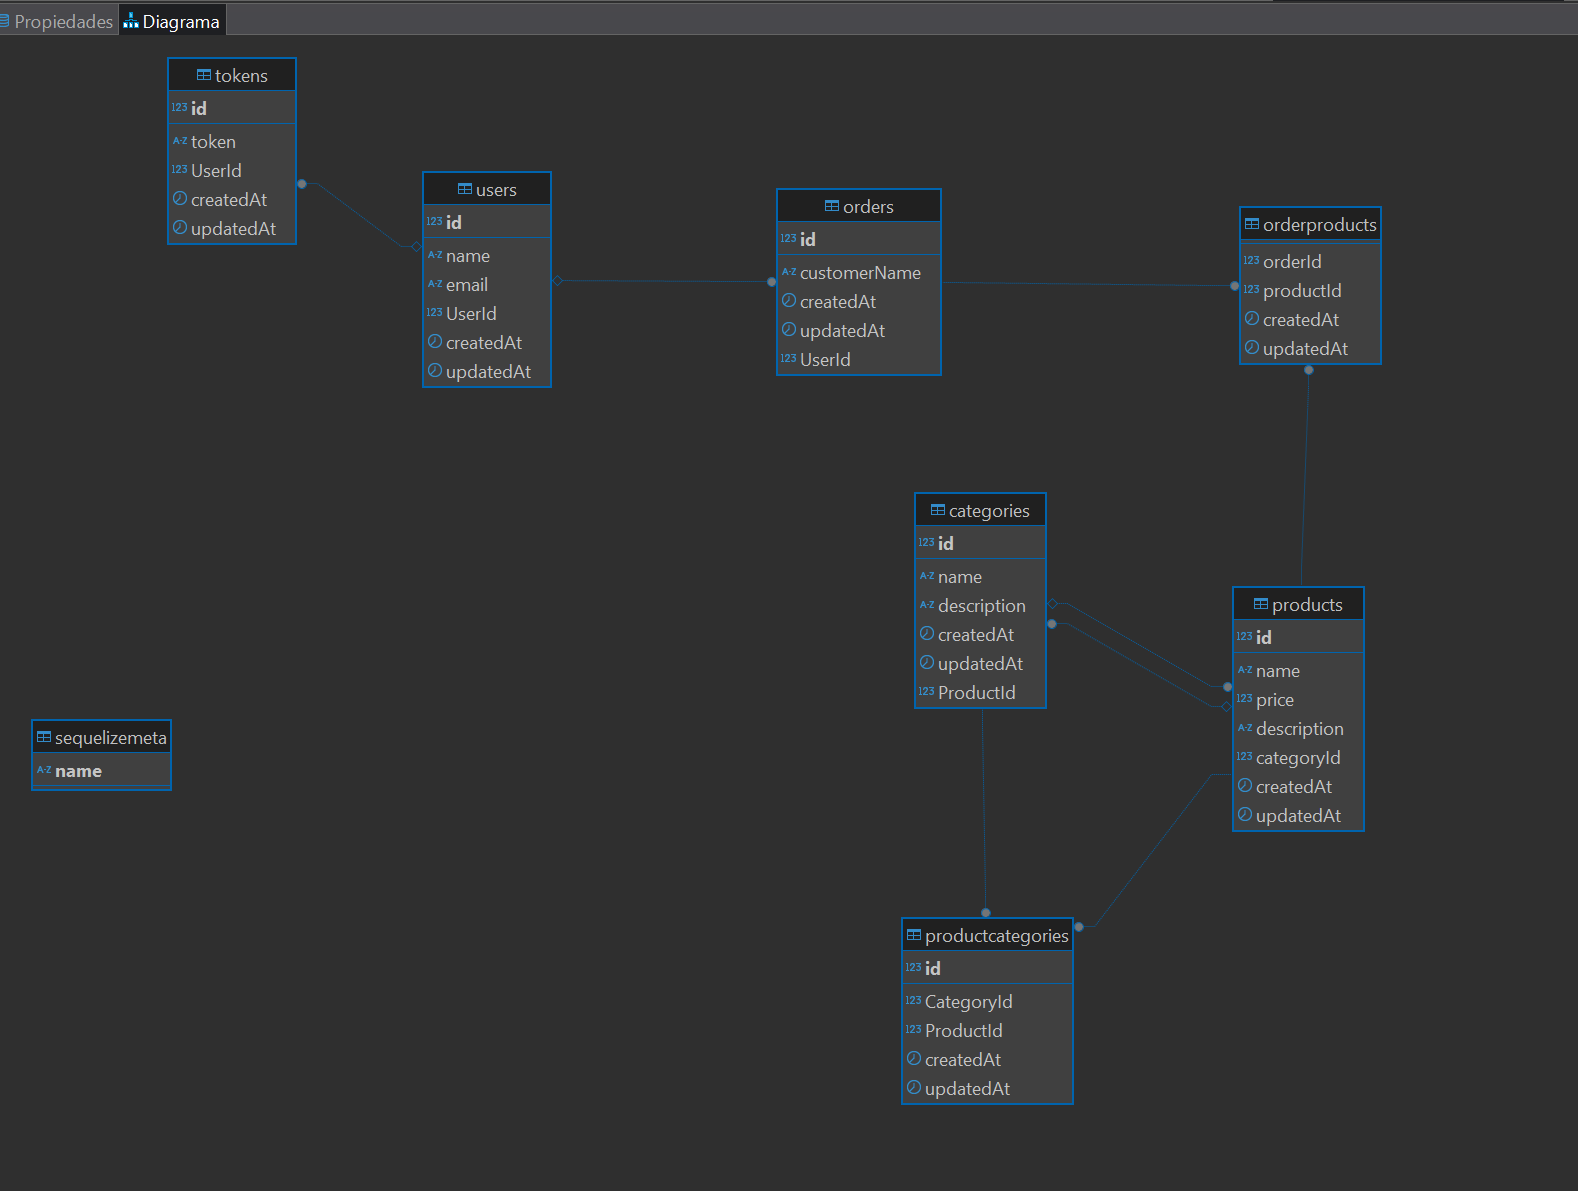
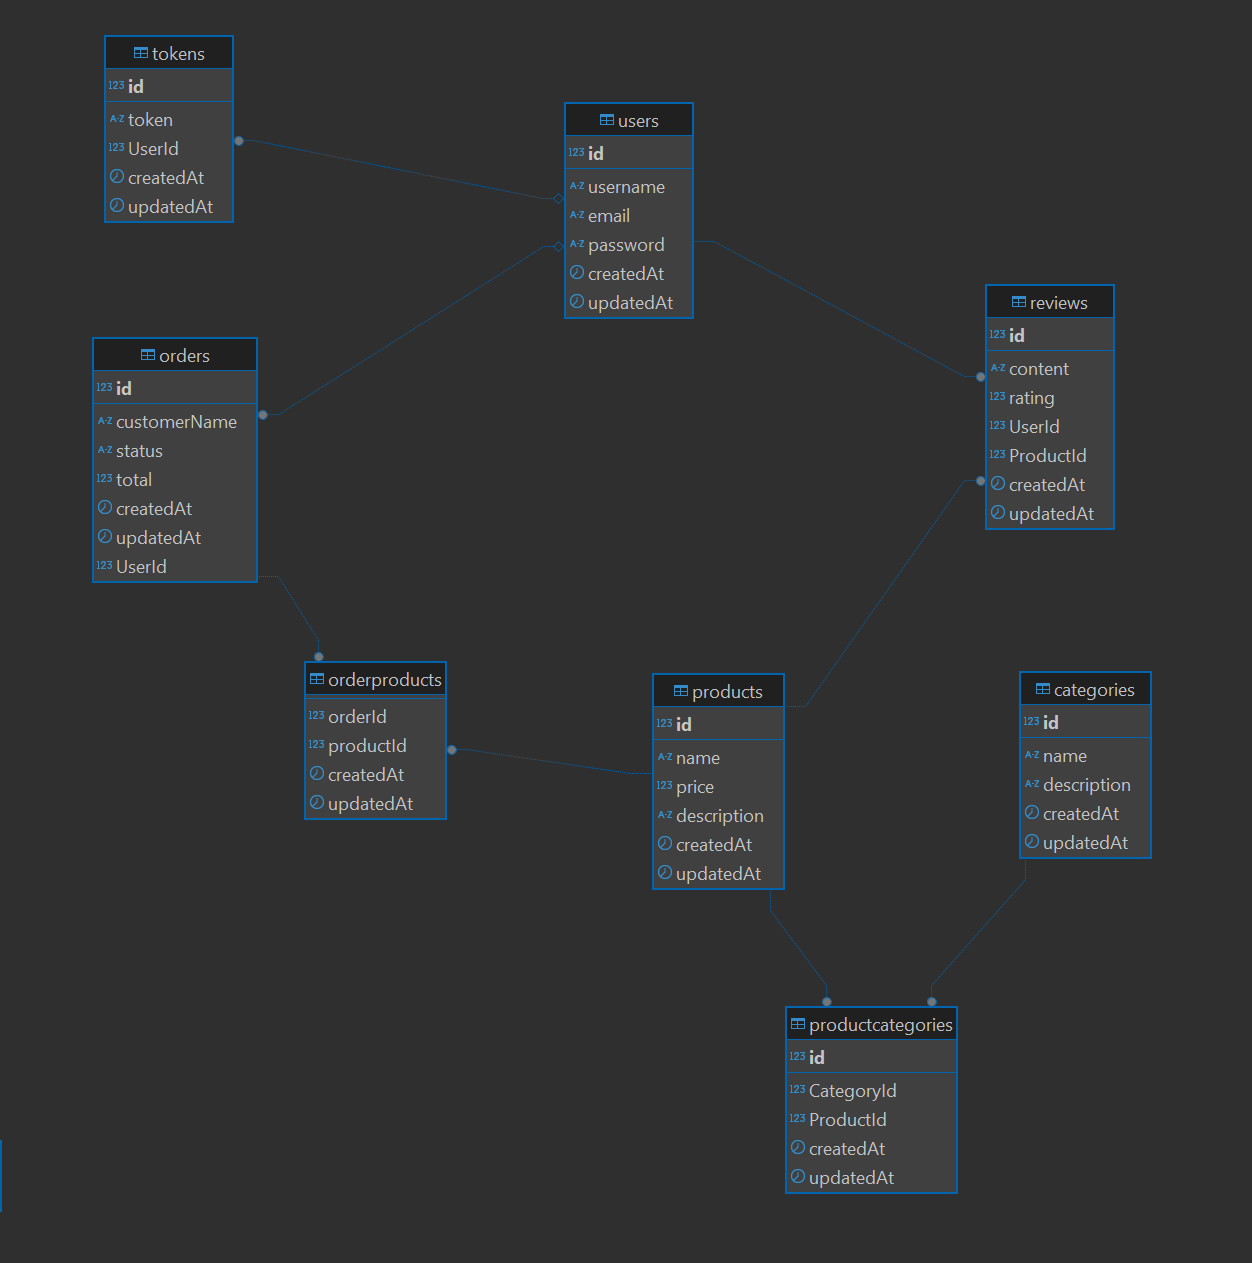
fixed seeders and relations; checked categories and users endpoints

diff --git a/controllers/UserController.js b/controllers/UserController.js
@@ -1,4 +1,4 @@
-const { User, Order, Token, Sequelize } = require('../models/index.js');
+const { User, Order, Token, Sequelize, Review } = require('../models/index.js');
 const bcrypt = require('bcryptjs');
 const jwt = require('jsonwebtoken');
 const { jwt_secret } = require('../config/config.json')['development'];
@@ -6,17 +6,92 @@ const { Op } = Sequelize;
 
 const UserController = {
     create(req, res) {
-        req.body.role = 'user';
-        const passwordEncrypted = bcrypt.hashSync(req.body.password, 10);
-        User.create({ ...req.body, password: passwordEncrypted })
-            .then(user =>
-                res
-                    .status(201)
-                    .send({ message: 'Usuario creado con éxito', user })
-            )
-            .catch(err => console.error(err));
+        try {
+            if (!req.body.password) {
+                return res
+                    .status(400)
+                    .json({ message: 'Password es obligatorio' });
+            }
+            req.body.role = 'user';
+            const passwordEncrypted = bcrypt.hashSync(req.body.password, 10);
+            User.create({ ...req.body, password: passwordEncrypted })
+                .then(user =>
+                    res
+                        .status(201)
+                        .send({ message: 'Usuario creado con éxito', user })
+                )
+                .catch(err => {
+                    console.error(err);
+                    res.status(500).json({ message: 'Error creando usuario' });
+                });
+        } catch (error) {
+            console.error(error);
+            res.status(500).json({ message: 'Error interno' });
+        }
     },
+    async getAll(req, res) {
+        try {
+            const users = await User.findAll({
+                attributes: { exclude: ['password'] },
+                include: [
+                    {
+                        model: models.Review,
+                        as: 'reviews',
+                        attributes: ['id', 'content', 'rating'],
+                    },
+                ],
+            });
+            res.json(users);
+        } catch (error) {
+            console.error(error);
+            res.status(500).json({ message: 'Error al obtener usuarios' });
+        }
+    },
+    async delete(req, res) {
+        try {
+            const id = req.params.id;
+            const user = await User.findByPk(id);
 
+            if (!user) {
+                return res
+                    .status(404)
+                    .json({ message: 'Usuario no encontrado' });
+            }
+
+            await user.destroy();
+            res.json({ message: 'Usuario eliminado correctamente' });
+        } catch (error) {
+            console.error(error);
+            res.status(500).json({ message: 'Error al eliminar usuario' });
+        }
+    },
+    async update(req, res) {
+        try {
+            const id = req.params.id;
+            const { username, email, password } = req.body;
+
+            const user = await User.findByPk(id);
+            if (!user) {
+                return res
+                    .status(404)
+                    .json({ message: 'Usuario no encontrado' });
+            }
+
+            // Si envían password, cifrarlo
+            if (password) {
+                const bcrypt = require('bcryptjs');
+                req.body.password = bcrypt.hashSync(password, 10);
+            } else {
+                delete req.body.password; // para evitar sobreescribir con undefined
+            }
+            await user.update({ username, email, password: req.body.password });
+
+            res.json({ message: 'Usuario actualizado correctamente', user });
+        } catch (error) {
+            console.error(error);
+            res.status(500).json({ message: 'Error al actualizar usuario' });
+        }
+    },
     login(req, res) {
         User.findOne({
             where: { email: req.body.email },
@@ -37,7 +112,7 @@ const UserController = {
             }
             const token = jwt.sign({ id: user.id }, jwt_secret);
             Token.create({ token, UserId: user.id });
-            res.send({ message: 'Bienvenid@ ' + user.name, user, token });
+            res.send({ message: 'Bienvenid@ ' + user.username, user, token });
         });
     },
     async logout(req, res) {

diff --git a/controllers/ProductController.js b/controllers/ProductController.js
@@ -207,6 +207,32 @@ const ProductController = {
             res.status(500).json({ error: error.message });
         }
     },
+    async addCategories(req, res) {
+        try {
+            const { productId, categoryIds } = req.body;
+            const product = await Product.findByPk(productId);
+            if (!product)
+                return res
+                    .status(404)
+                    .json({ message: 'Producto no encontrado' });
+            const categories = await Category.findAll({
+                where: {
+                    id: categoryIds,
+                },
+            });
+            if (categories.length !== categoryIds.length) {
+                return res.status(400).json({
+                    message: 'Algunas categorías no fueron encontradas',
+                });
+            }
+            await product.addCategories(categories);
+            res.status(200).json({
+                message: 'Categorías añadidas al producto correctamente',
+            });
+        } catch (error) {
+            res.status(500).json({ error: error.message });
+        }
+    },
 };
 
 module.exports = ProductController;

diff --git a/seeders/20250529100740-demo_users.js b/seeders/20250529100740-demo_users.js
@@ -1,6 +1,6 @@
 'use strict';
 
-const bcrypt = require('bcryptjs'); // Opcional si quieres guardar passwords encriptadas
+const bcrypt = require('bcryptjs');
 
 module.exports = {
     async up(queryInterface, Sequelize) {
@@ -9,7 +9,8 @@ module.exports = {
                 id: 1,
                 username: 'juanperez',
                 email: 'juan.perez@example.com',
-                password: bcrypt.hashSync('password123', 10), // Encriptar password si tienes ese campo
+                password: bcrypt.hashSync('password123', 10),
+                role: 'user',
                 createdAt: new Date(),
                 updatedAt: new Date(),
             },
@@ -18,6 +19,7 @@ module.exports = {
                 username: 'ana_lopez',
                 email: 'ana.lopez@example.com',
                 password: bcrypt.hashSync('securepass', 10),
+                role: 'admin',
                 createdAt: new Date(),
                 updatedAt: new Date(),
             },

diff --git a/controllers/OrderController.js b/controllers/OrderController.js
@@ -6,6 +6,7 @@ const OrderController = {
             const orders = await Order.findAll({
                 include: {
                     model: Product,
+                    as: 'products',
                     through: { attributes: [] },
                 },
             });
@@ -33,7 +34,11 @@ const OrderController = {
                 const foundProducts = await Product.findAll({
                     where: { id: productIds },
                 });
-
+                if (foundProducts.length !== productIds.length) {
+                    return res
+                        .status(400)
+                        .json({ message: 'Algunos productos no existen' });
+                }
                 await newOrder.addProducts(foundProducts);
             }
 

diff --git a/migrations/20250527153308-create-product-categories.js b/migrations/20250527153308-create-product-categories.js
@@ -11,7 +11,7 @@ module.exports = {
                 type: Sequelize.INTEGER,
                 allowNull: false,
                 references: {
-                    model: 'Categories', // nombre de la tabla
+                    model: 'Categories',
                     key: 'id',
                 },
                 onUpdate: 'CASCADE',
@@ -21,7 +21,7 @@ module.exports = {
                 type: Sequelize.INTEGER,
                 allowNull: false,
                 references: {
-                    model: 'Products', // nombre de la tabla
+                    model: 'Products',
                     key: 'id',
                 },
                 onUpdate: 'CASCADE',

diff --git a/models/user.js b/models/user.js
@@ -15,7 +15,10 @@ module.exports = (sequelize, DataTypes) => {
                 foreignKey: 'UserId',
                 as: 'tokens',
             });
-            User.hasMany(models.Review, { foreignKey: 'UserId' });
+            User.hasMany(models.Review, {
+                foreignKey: 'UserId',
+                as: 'reviews',
+            });
         }
     }
 
@@ -24,6 +27,7 @@ module.exports = (sequelize, DataTypes) => {
             username: DataTypes.STRING,
             email: DataTypes.STRING,
             password: DataTypes.STRING,
+            role: DataTypes.STRING,
         },
         {
             sequelize,

diff --git a/routes/users.js b/routes/users.js
@@ -4,10 +4,10 @@ const UserController = require('../controllers/UserController');
 const { authentication } = require('../middlewares/authentication');
 
 router.post('/', UserController.create);
+router.post('/login', UserController.login);
 router.get('/', authentication, UserController.getAll);
 router.delete('/:id', authentication, UserController.delete);
 router.put('/:id', authentication, UserController.update);
-router.post('/login', UserController.login);
 router.delete('/logout', authentication, UserController.logout);
 
 module.exports = router;

diff --git a/routes/reviews.js b/routes/reviews.js
@@ -1,10 +1,11 @@
 const express = require('express');
 const router = express.Router();
 const ReviewController = require('../controllers/ReviewController');
+const { authentication, isAdmin } = require('../middlewares/authentication');
 
 router.get('/', ReviewController.getAllReviews);
 router.post('/', ReviewController.createReview);
 router.put('/:id', ReviewController.updateReview);
-router.delete('/:id', ReviewController.deleteReview);
+router.delete('/:id', authentication, isAdmin, ReviewController.deleteReview);
 
 module.exports = router;

diff --git a/migrations/20250525124231-create-product.js b/migrations/20250525124231-create-product.js
@@ -18,15 +18,7 @@ module.exports = {
             description: {
                 type: Sequelize.TEXT,
             },
-            categoryId: {
-                type: Sequelize.INTEGER,
-                references: {
-                    model: 'Categories',
-                    key: 'id',
-                },
-                onUpdate: 'CASCADE',
-                onDelete: 'CASCADE',
-            },
+
             createdAt: {
                 allowNull: false,
                 type: Sequelize.DATE,

diff --git a/models/productcategory.js b/models/productcategory.js
@@ -2,11 +2,6 @@
 const { Model } = require('sequelize');
 module.exports = (sequelize, DataTypes) => {
     class ProductCategory extends Model {
-        /**
-         * Helper method for defining associations.
-         * This method is not a part of Sequelize lifecycle.
-         * The `models/index` file will call this method automatically.
-         */
         static associate(models) {
             models.Product.belongsToMany(models.Category, {
                 through: 'ProductCategory',

diff --git a/models/token.js b/models/token.js
@@ -2,11 +2,6 @@
 const { Model } = require('sequelize');
 module.exports = (sequelize, DataTypes) => {
     class Token extends Model {
-        /**
-         * Helper method for defining associations.
-         * This method is not a part of Sequelize lifecycle.
-         * The `models/index` file will call this method automatically.
-         */
         static associate(models) {
             // define association here
             Token.belongsTo(models.User, {

diff --git a/routes/products.js b/routes/products.js
@@ -10,5 +10,6 @@ router.get('/search/name/:name', ProductController.searchProductByName);
 router.get('/search/price/:price', ProductController.searchProductByPrice);
 router.get('/order/price/desc', ProductController.orderByPriceDesc);
 router.get('/:id', ProductController.getById);
+router.post('/addCategories', ProductController.addCategories);
 
 module.exports = router;
